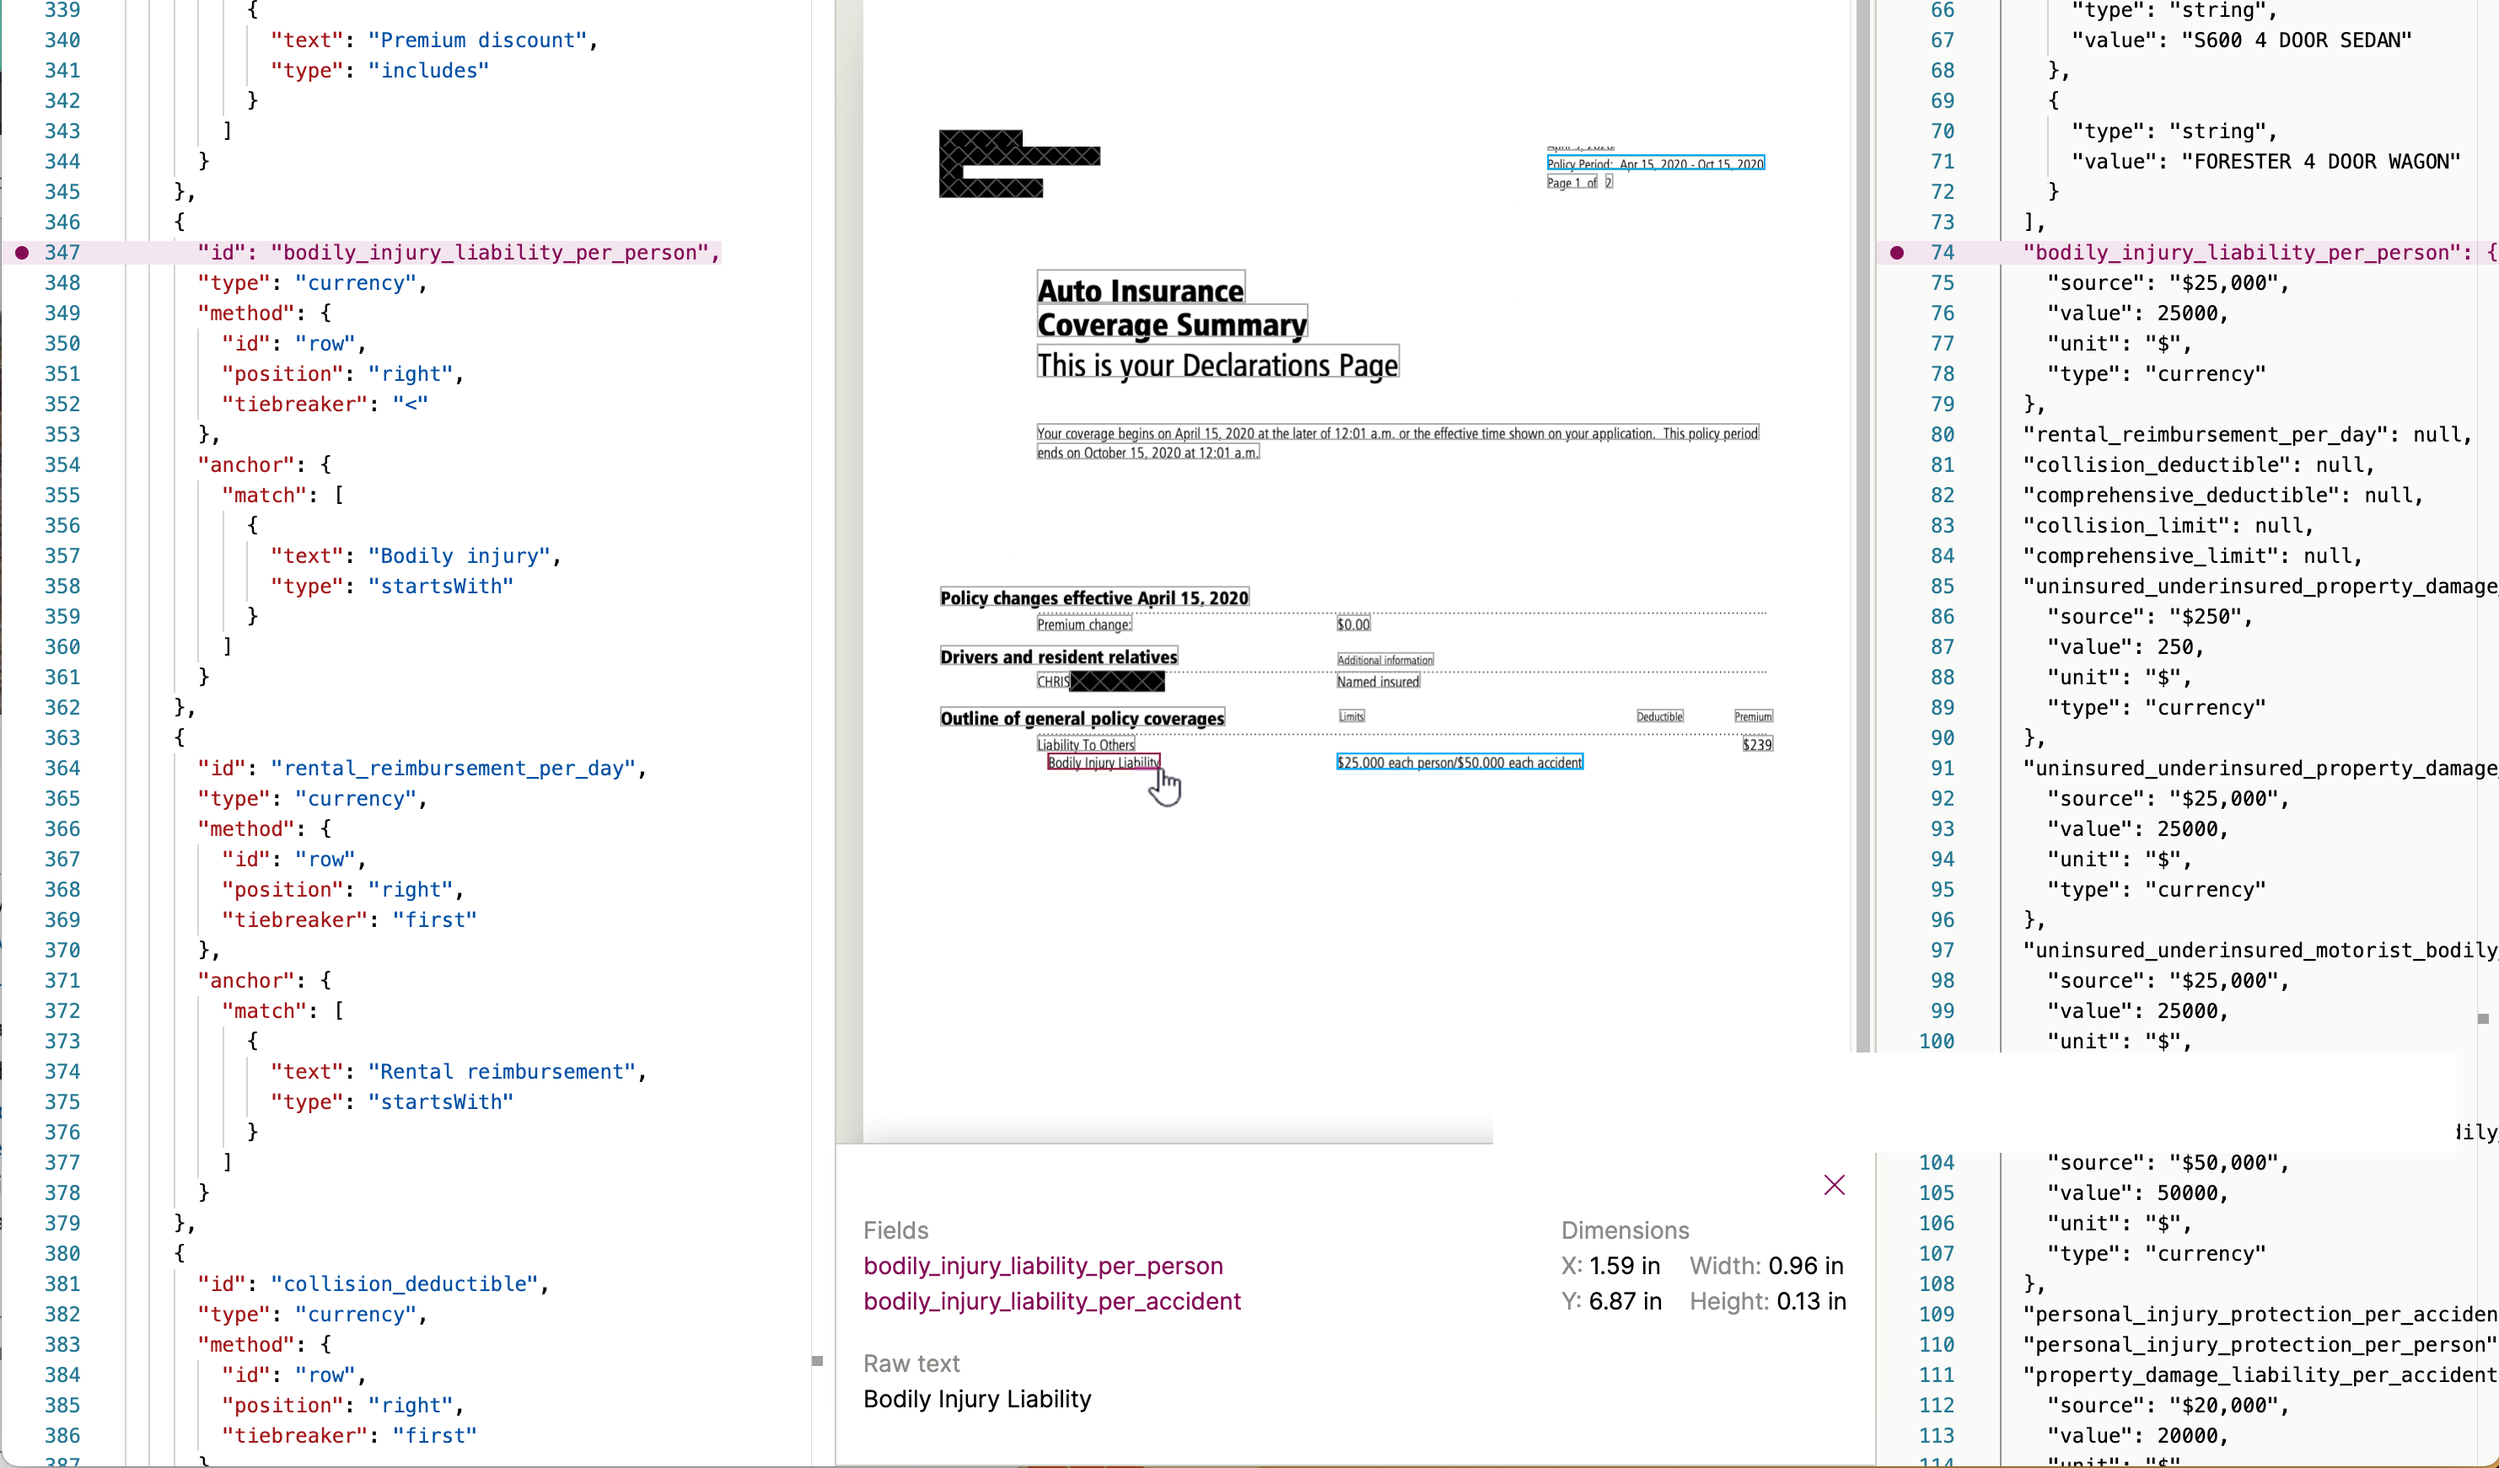
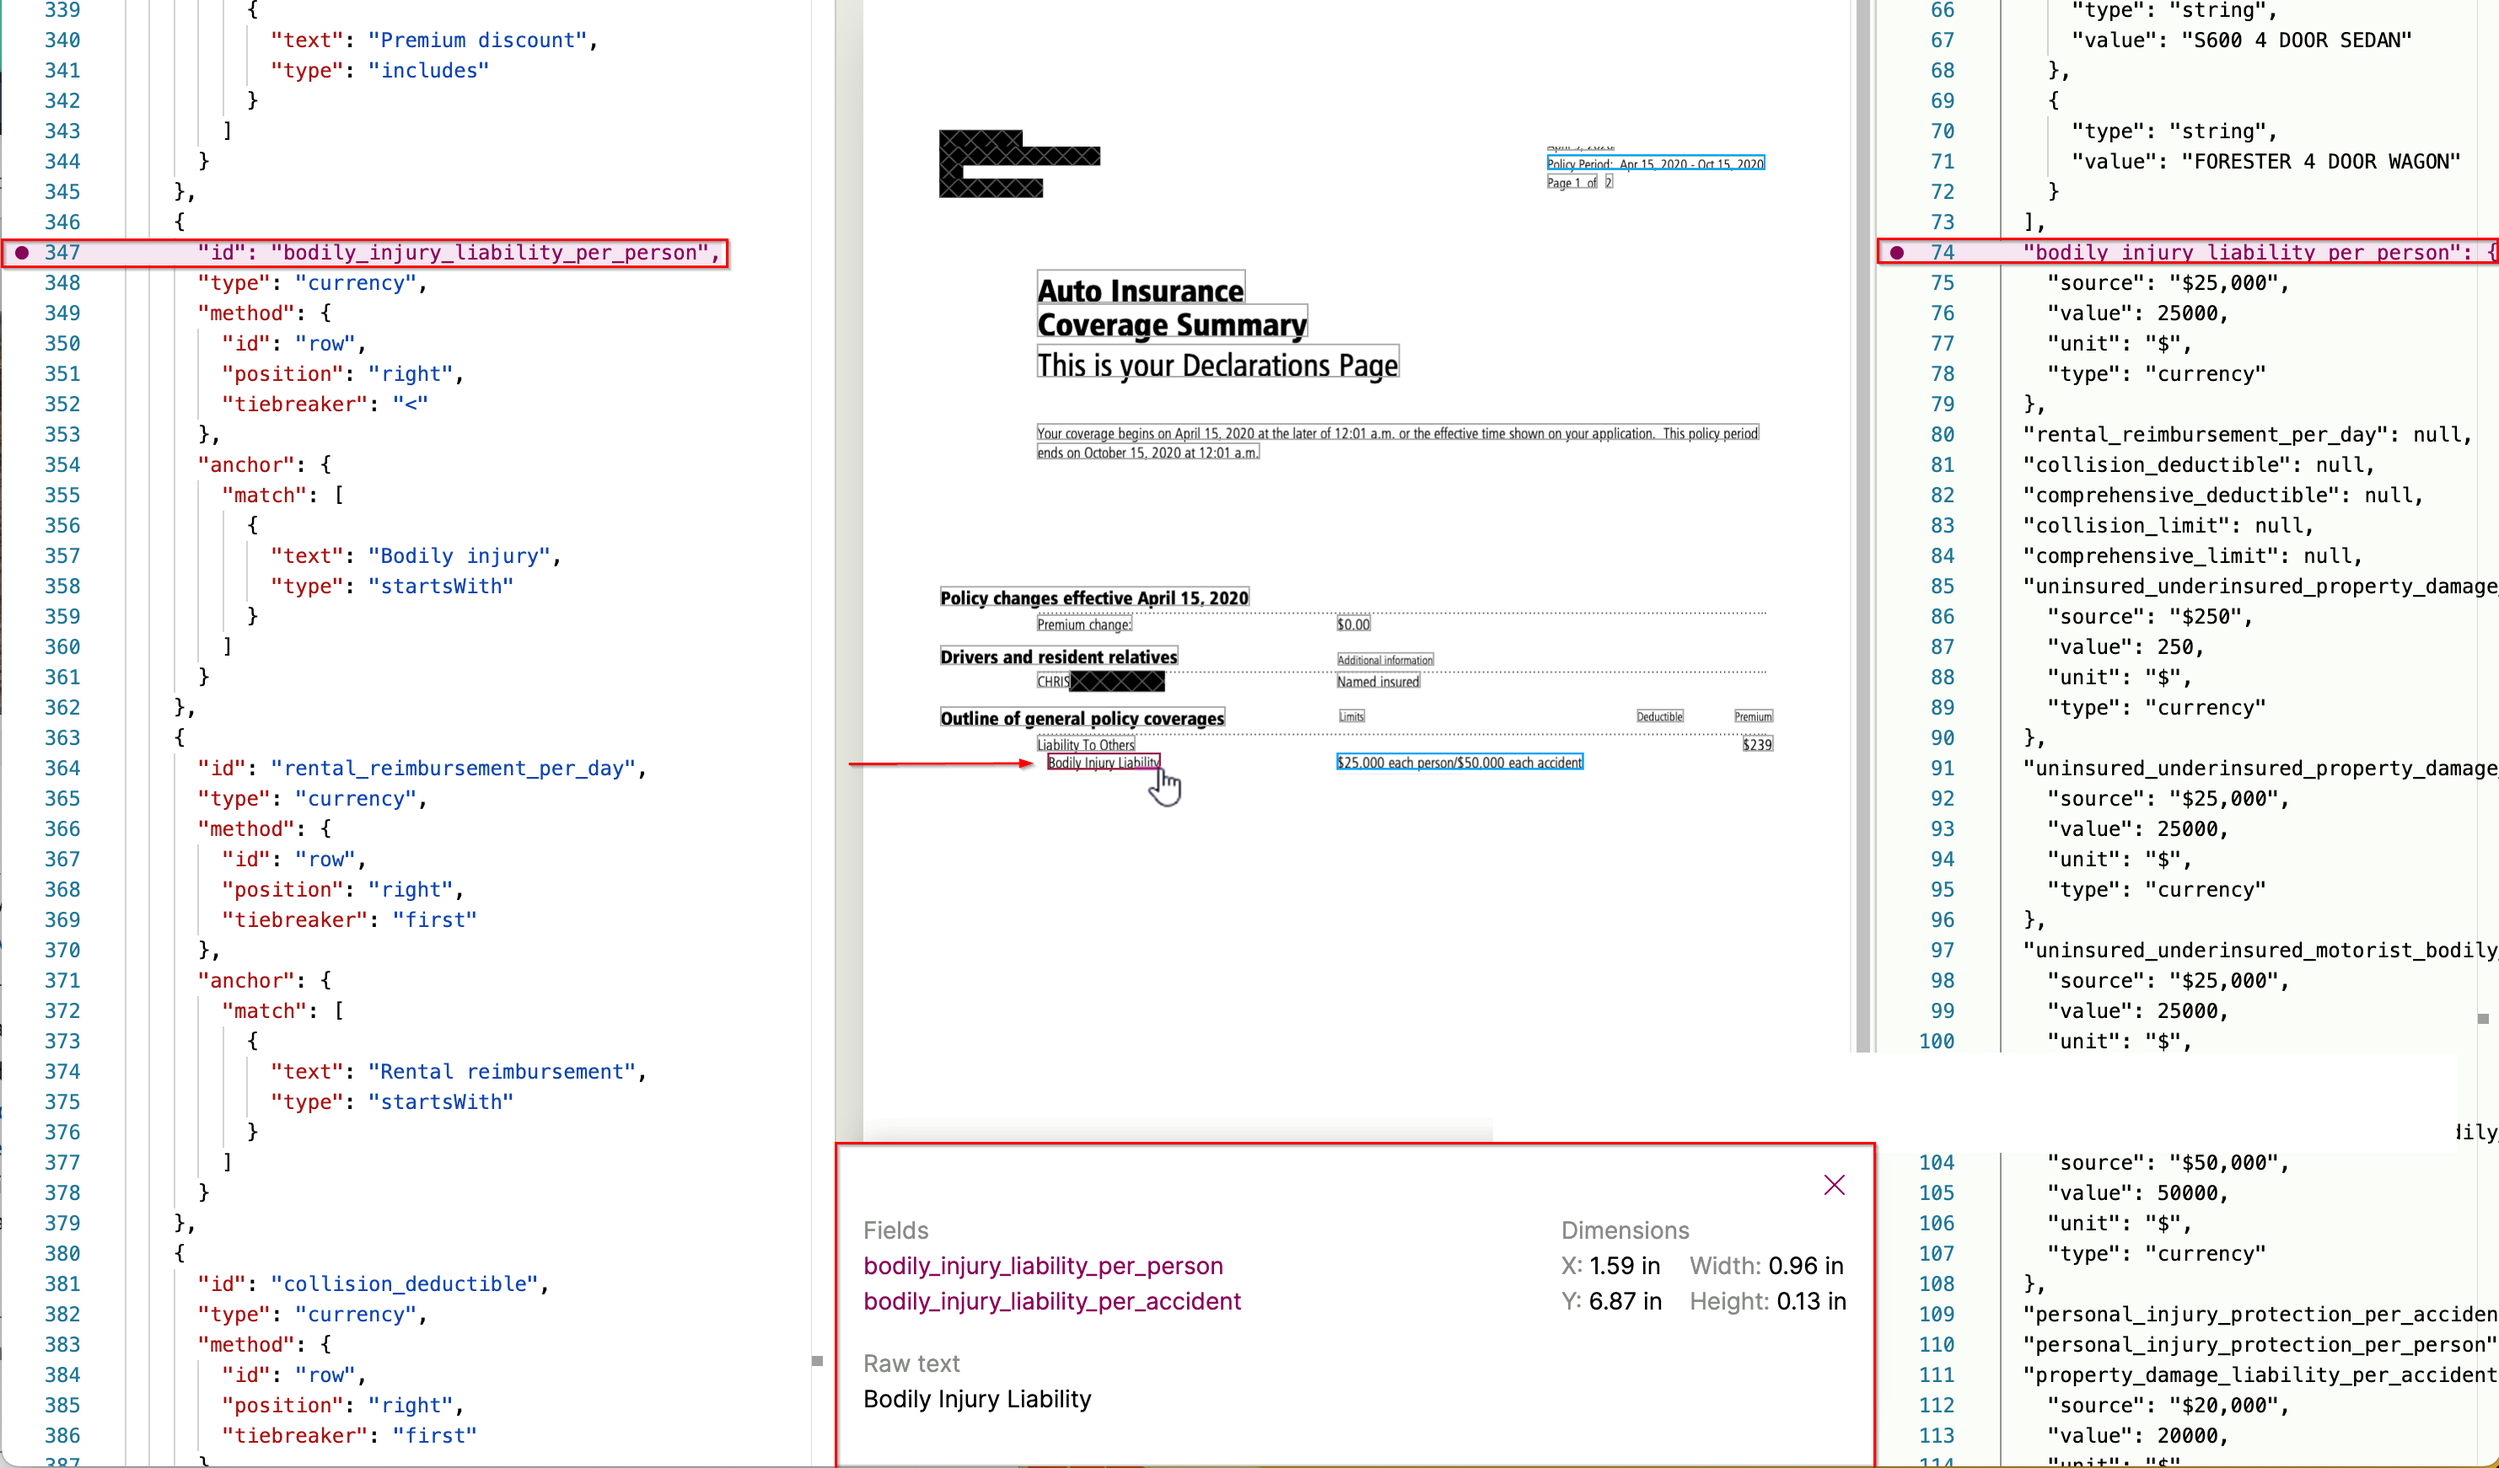
adding callouts

diff --git a/readme-sync/v0/senseml-reference/250 - preprocessors/090 - deskew.md b/readme-sync/v0/senseml-reference/250 - preprocessors/090 - deskew.md
@@ -1,0 +1,96 @@
+---
+title: "deskew"
+hidden: true
+---
+
+
+Correct the alignment of poorly scanned or photographed PDF documents.
+
+Parameters
+----
+
+| key                       | value   | description                                                      |
+| ------------------------- | ------ | ------------------------------------------------------------ |
+| `type` (**required**)     | `ligature` |                                                    |
+| `mappings` (**required**) | object | An object mapping ligature strings (e.g., `"\u0000"`) to an array of possible ligature replacements (e.g., `["ff", "ffi", "fi", "fl"]`). Sensible uses a dictionary in the target language to choose replacements that lead to known words. Currently Sensible supports American English (en-us). This approach is conservative and may leave some Unicode characters in proper names or other non-word data. |
+
+Examples
+----
+
+This config shows using a ligature mapping preprocessor and outputting the whole document in order to check the ligature replacement accuracy: 
+
+```
+{
+  "preprocessors": [
+    {
+      "type": "ligature",
+      "mappings": {
+        "\u0013": [
+          "gg"
+        ],
+        ",": [
+          "fi"
+        ]
+      }
+    }
+  ],
+  "fields": [
+    {
+      "id": "all_lines_in_doc",
+      "method": {
+        "id": "documentRange",
+        "includeAnchor": true
+      },
+      "anchor": {
+        "match": {
+          "type": "first"
+        }
+      }
+    }
+  ]
+}
+```
+
+
+
+
+
+Notes
+----
+
+*Ligatures* are two or more letters joined together into a single glyph. They appear to be garbage Unicode characters in your direct text extraction, like this:
+
+```json
+….incinerating or composting toilets; \u0000re suppression systems; water softeners, conditioners or \u0000ltering systems; over\u0000ow drains for tubs and sinks; back\u0000ow prevention devices...
+```
+
+Even if the rendered PDF looks fine, ligatures can still exist in the extracted text. In the preceding example, `fi`, `fl` and others are joined together and appear as `\u0000` in the raw text, so that you see `\u0000re` instead of `fire` and `over\u0000ow` instead of `overflow`.
+
+To find out if ligatures exist in the extracted text for your PDF, you can extract all the lines in the PDF and search for Unicode characters. To extract all lines into one key-value pair, you can use a config like:
+
+```
+{
+  "fields": [
+     
+    {
+      "id": "all_lines_in_doc",
+      "method": {
+        "id": "documentRange",
+        "includeAnchor": true
+      },
+      "anchor": {
+        "match": {
+          "type":"first"
+        }
+      }
+    }
+  ],
+}
+```
+
+The following image shows an example of capturing all the lines of text in a W-9 form:
+
+![](https://raw.githubusercontent.com/sensible-hq/sensible-docs/main/readme-sync/assets/v0/images/all_lines.png)
+
+
+

diff --git a/readme-sync/v0/senseml-reference/200 - field-query-object/120 - method-object.md b/readme-sync/v0/senseml-reference/200 - field-query-object/120 - method-object.md
@@ -20,7 +20,7 @@ The parameters for a method vary based on the method type (defined in the `id` p
 | wordFilters      | string array                                                 | Filters out unwanted matched strings from the method results. |
 | whitespaceFilter | `spaces`, `all`                                              | Remove extraneous whitespaces. Use `spaces` to remove only extra spaces and `all` to remove all whitespace characters, including new lines and tabs. |
 | xRangeFilter     | object                                                       | Excludes lines that do not fall fully between a starting point and an ending point along the x-axis. The starting point is defined by the start parameter plus the offsetX parameter, and the ending point is that starting point plus the width parameter Any line that only partially falls inside the defined area is excluded. Parameters: <br/>`start` - `right` ,`left`  - Adjusts the starting point to the right or left boundary of the anchor line.<br/> `offsetX` - Adjusts the starting point defined by the Start parameter.  <br/> `width` - The width of page portion to capture, in inches. |
-| xMajorSort       | boolean                                                      | Orders lines by their x-axis position. Useful in cases where the text is not well-aligned (notably with handwriting). |
+| xMajorSort       | boolean                                                      | The X Major Sort parameter orders lines first by their x-axis position, rather than the default behavior of ordering first by the y-axis position.  This is useful in cases where the text is not well aligned (notably with handwriting). With badly aligned text, slight jitter in the vertical coordinate of lines can cause Sensible to see two lines that are seemingly on the same Y coordinate as appearing in the reverse order. Use the X Major Sort parameter to fix this problem. |
 
 
 

diff --git a/readme-sync/v0/senseml-reference/200 - field-query-object/draft.md b/readme-sync/v0/senseml-reference/200 - field-query-object/draft.md
@@ -3,12 +3,12 @@ title: "draft"
 hidden: true
 ---
 
-destined for method object
+destined for method object topic
 ====
 
 
 
-xRangeFilter 
+xRangeFilter example
 ----
 
 In combination with the Document Range method, the X Range Filter parameters defines a "column" that is bounded at the top and bottom by text.
@@ -61,3 +61,17 @@ This example uses the following config:
   ]
 }
 ```
+
+
+
+xMajorSort example
+----
+
+
+In the following example, the handwritten text "NY" is slightly taller than the text "State", so Sensible interprets "NY" as *preceding* "State": 
+
+![](https://raw.githubusercontent.com/sensible-hq/sensible-docs/main/readme-sync/assets/v0/images/changelog_July2021_xMajorSort.png)
+
+In another document, if a person wrote "NY"  in a shorter font than "State", Sensible would interpret "NY" as *succeeding* "State". To eliminate the variability,  set `"xMajorSort":"true"` so you can use "State" reliably as an anchor:
+
+![](https://raw.githubusercontent.com/sensible-hq/sensible-docs/main/readme-sync/assets/v0/images/changelog_July2021_xMajorSortSenseML.png)
